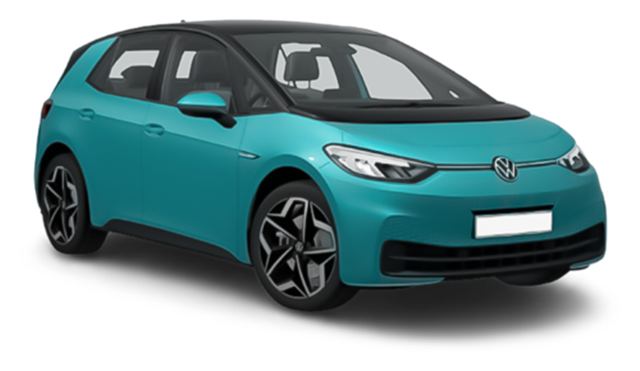
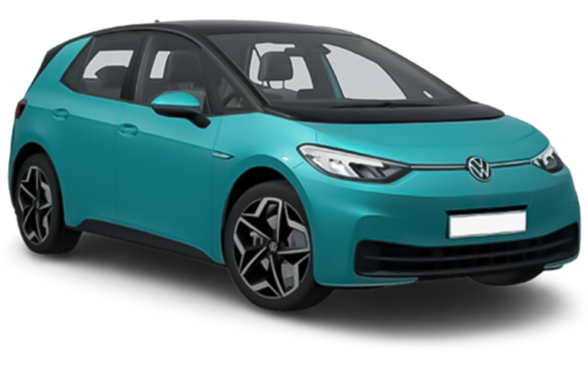
Total page: car images side by side without overlap, trim ID.3 margins

diff --git a/styles.css b/styles.css
@@ -44,9 +44,8 @@ button, input, select { font: inherit; color: inherit; }
 }
 .hero { height: 120px; display: flex; align-items: center; justify-content: center; gap: 4px; margin: 4px 0 16px; }
 .hero img { max-width: 100%; max-height: 100%; object-fit: contain; }
-.hero.two { height: auto; gap: 0; }
-.hero.two img { flex: 0 0 60%; width: 60%; max-width: none; max-height: none; height: auto; }
-.hero.two img + img { margin-left: -20%; }
+.hero.two { height: auto; gap: 4px; }
+.hero.two img { flex: 1 1 0; min-width: 0; width: 0; max-width: none; max-height: none; height: auto; }
 .grid { display: grid; grid-template-columns: 1fr 1fr; gap: 12px; }
 .box {
   aspect-ratio: 1; background: #fff; border: 1px solid var(--border); border-radius: 20px; padding: 14px;
